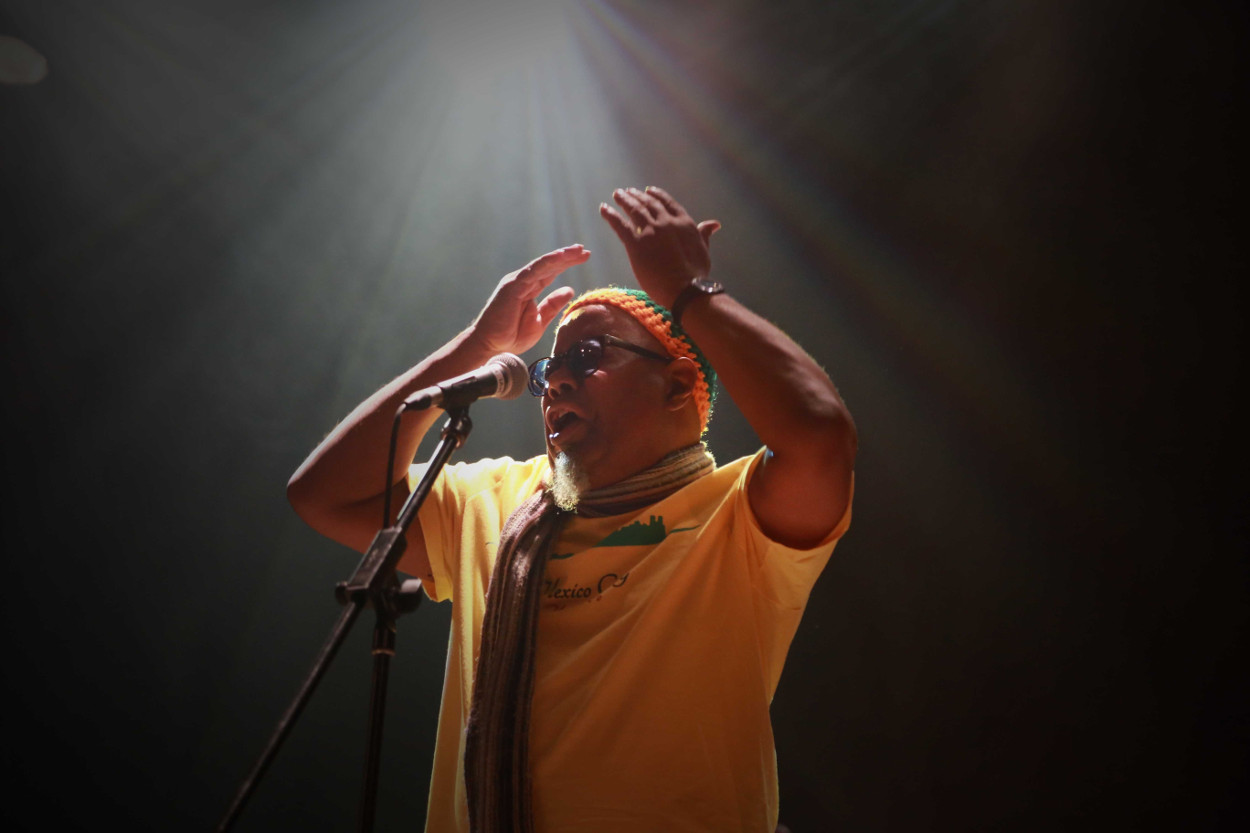
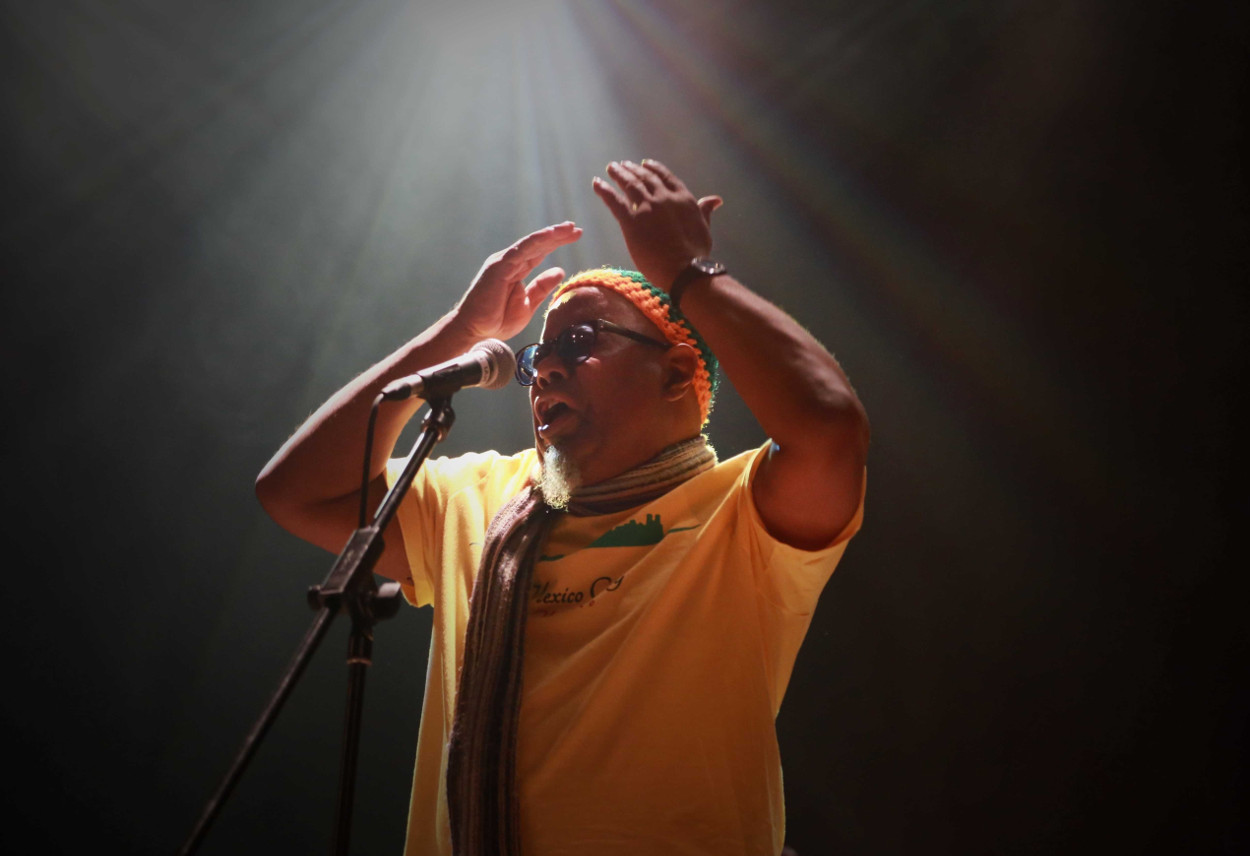
Add new AJA photos, other gallery tweaks, add 'links' to Music page

diff --git a/public/css/chasingshadows.css b/public/css/chasingshadows.css
@@ -154,8 +154,11 @@ h2 {
 	margin: 0 0 10px 0;
 /*	white-space: nowrap;*/
 }
-h3 a {
-	color: black;
+.mainArticle {
+	color: black !important;
+}
+.musicLink {
+	color: white !important;
 }
 ul {
 	padding: 0;
@@ -223,7 +226,6 @@ ul {
 	font-family: 'Questrial', sans-serif;
 	color: black;
 }
-
 
 /*	Footer icons */
 .footerIcons {
